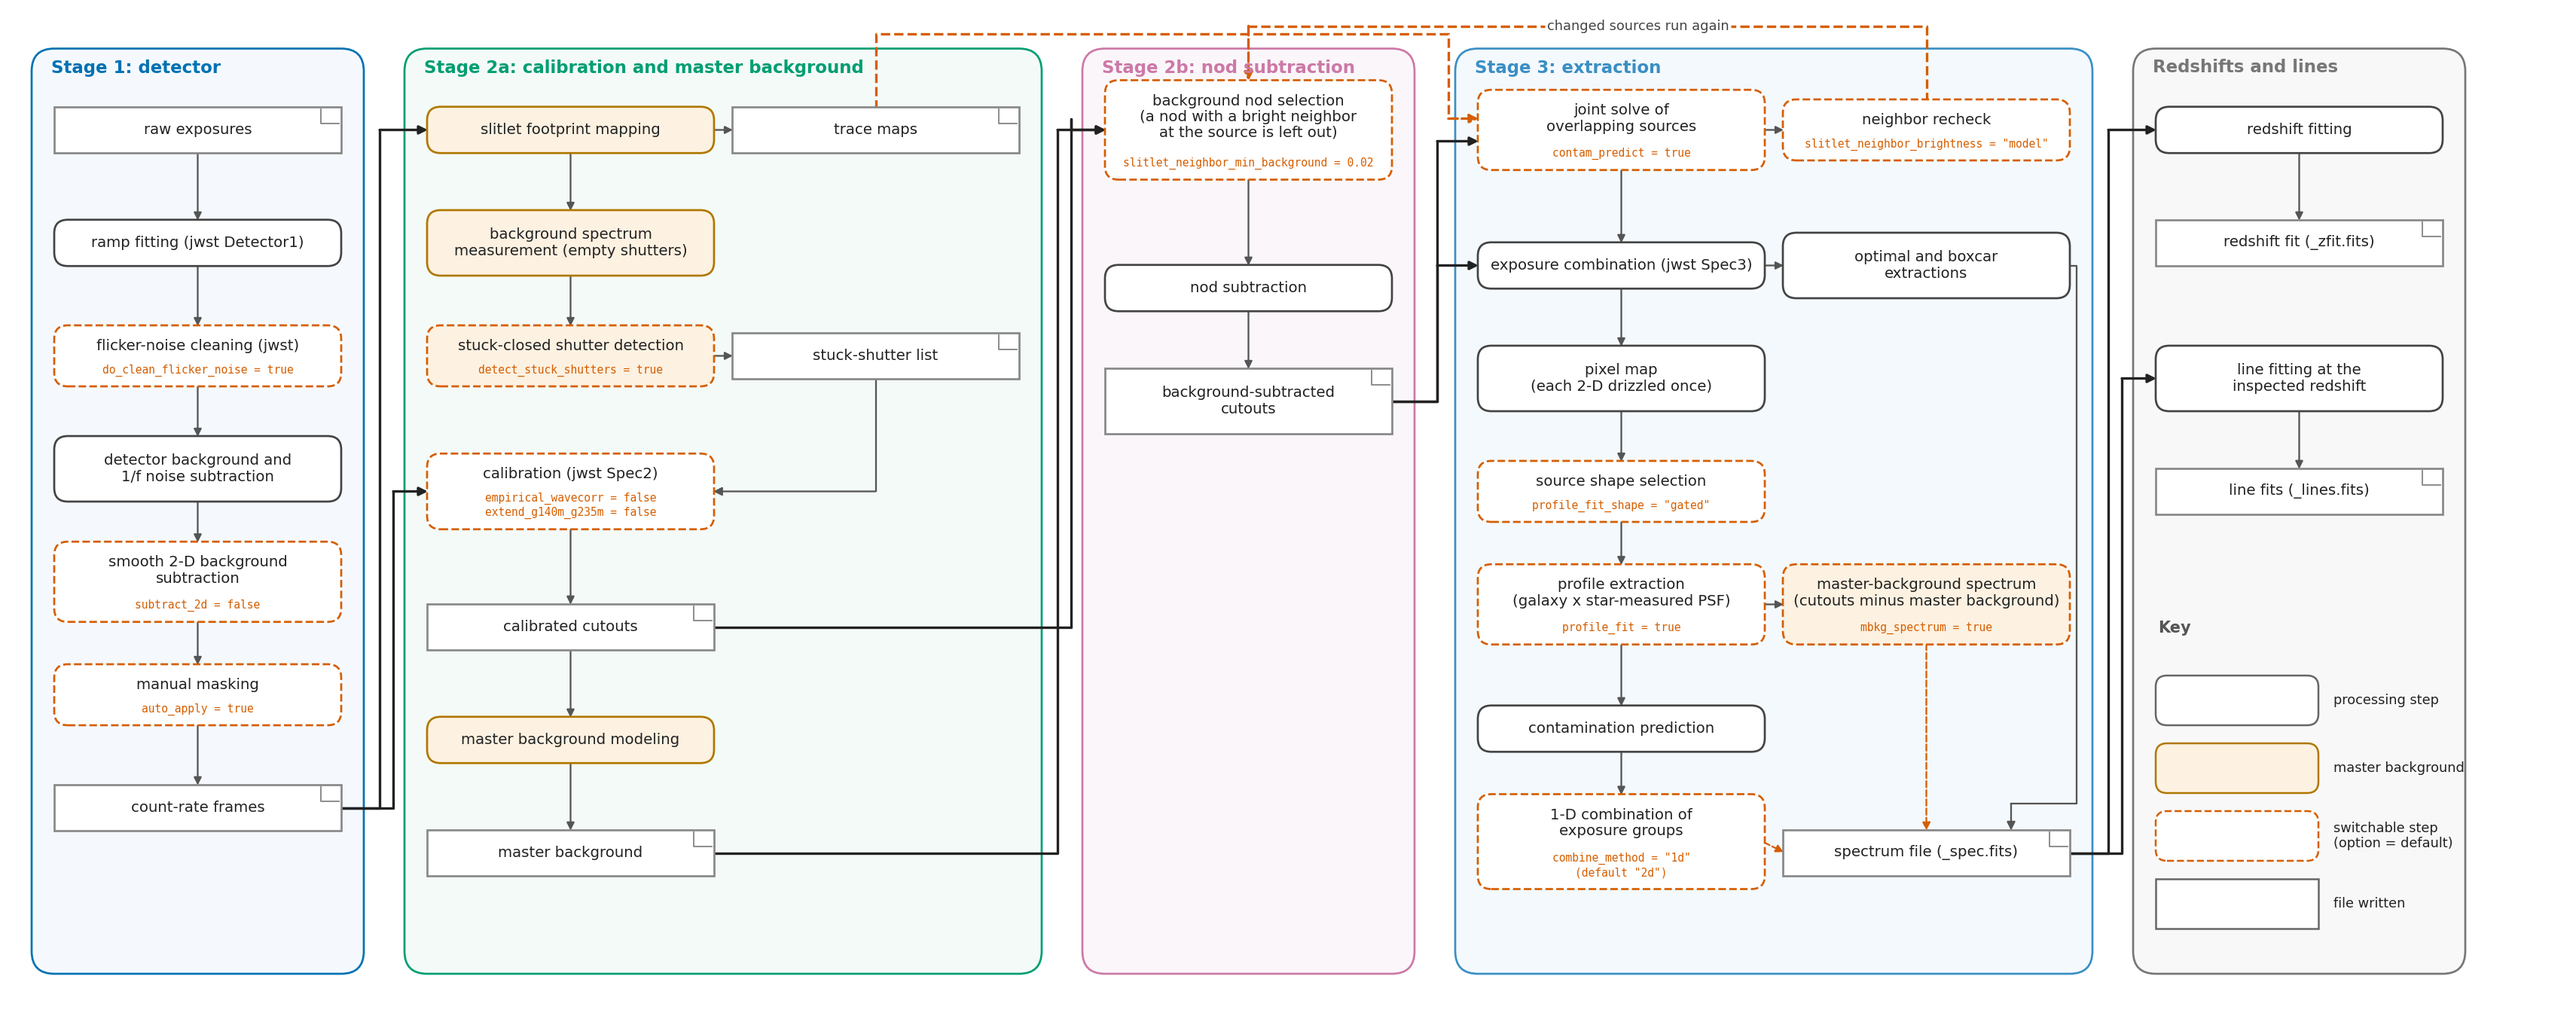
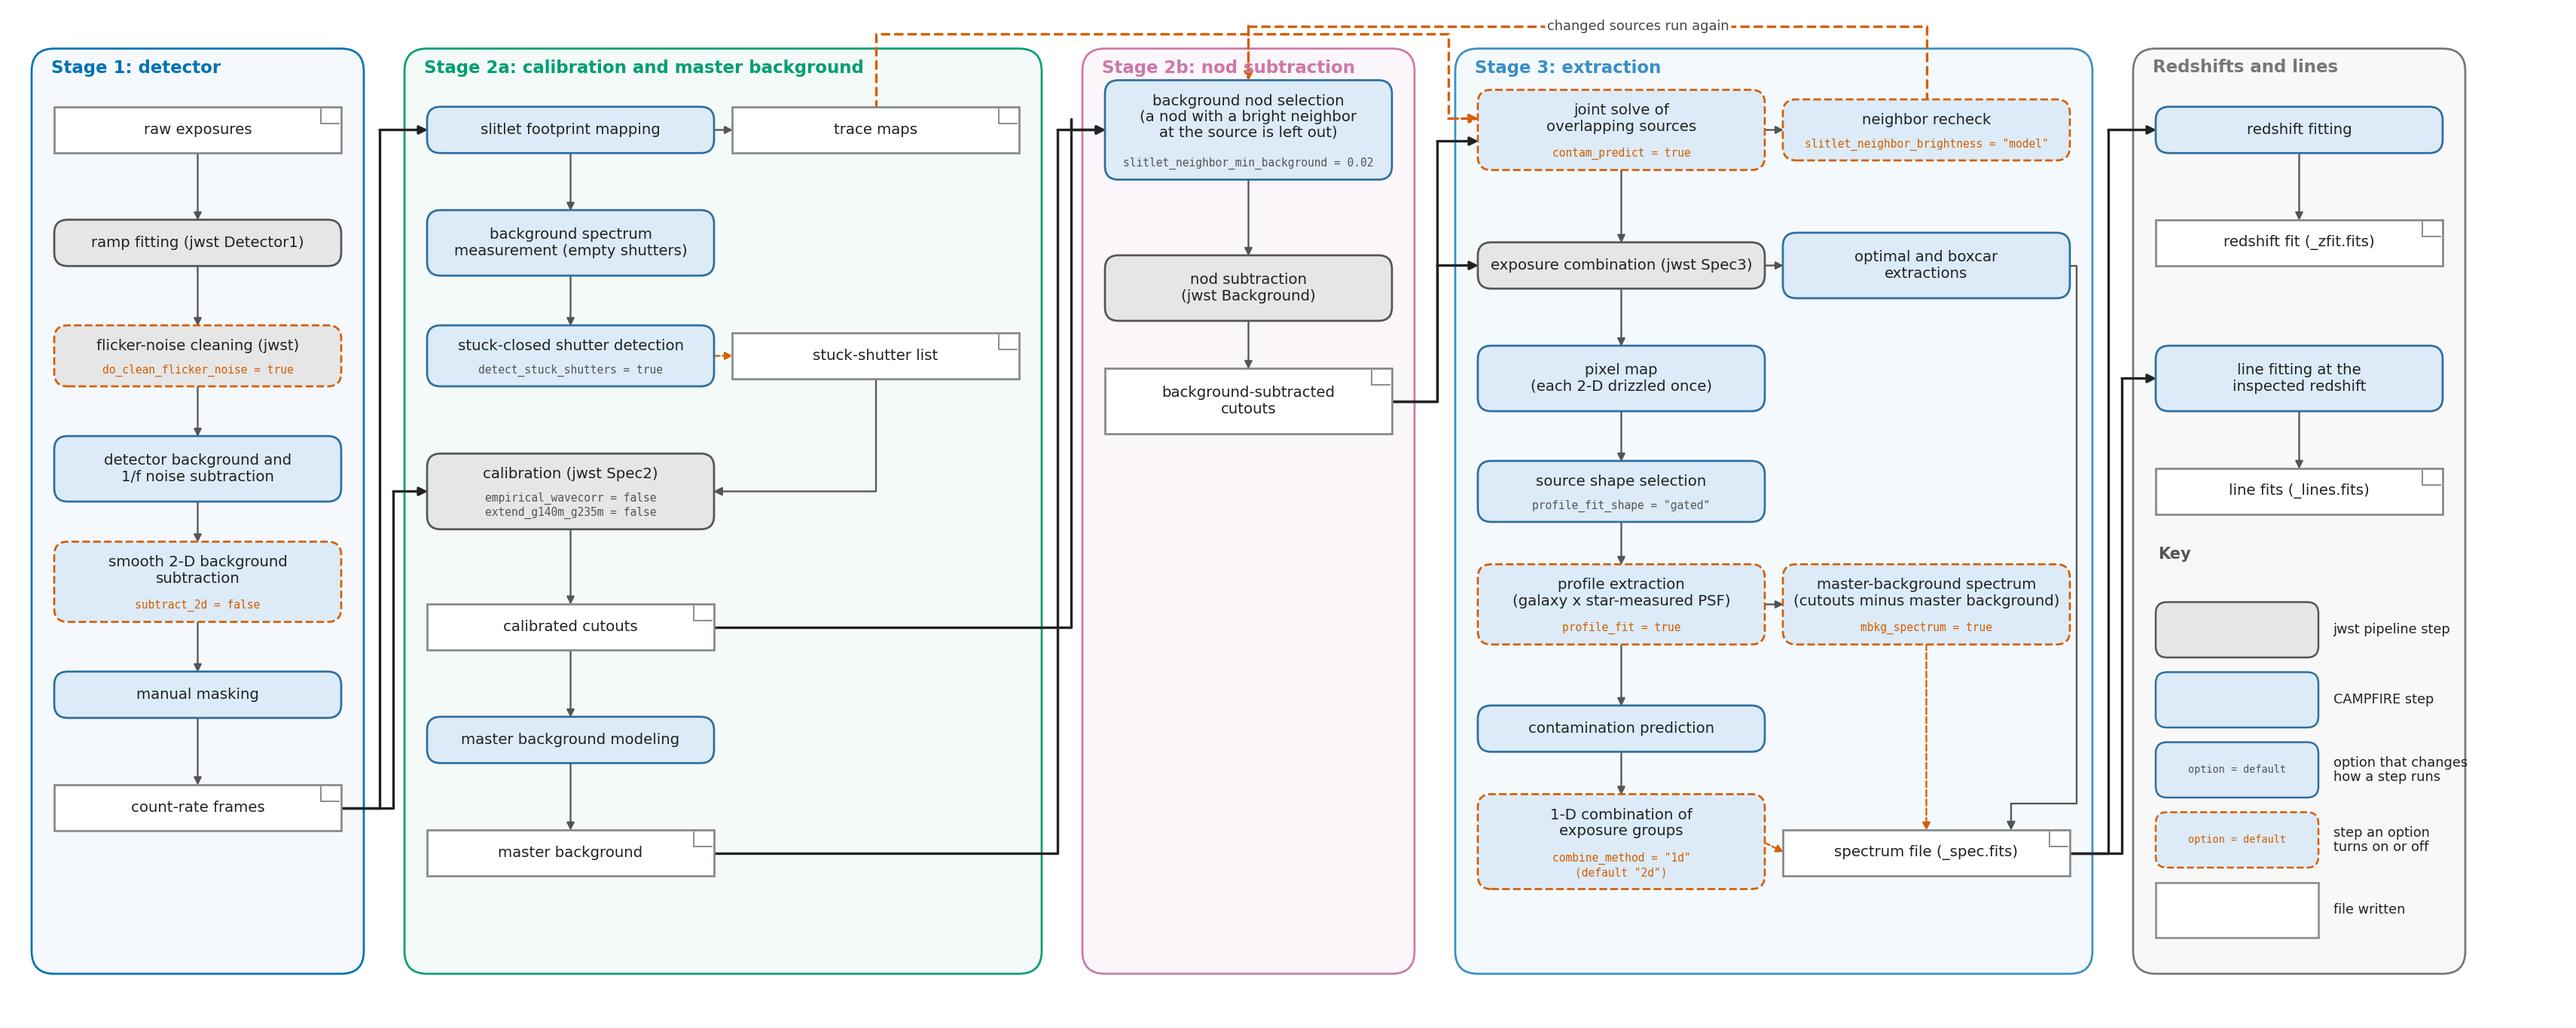
docs: flow diagram colors steps by origin (jwst or CAMPFIRE); dashed only where an option turns a step on or off
Claude-Session: https://claude.ai/code/session_019a5zAo87B6jUK2ZMiF6xjZ

diff --git a/scripts/docs/nirspec/fig_flow.py b/scripts/docs/nirspec/fig_flow.py
@@ -28,7 +28,11 @@ def knob(section, key):
     return f'{key} = {v}'
 
 
-VERM, MB_FILL, MB_EDGE = '#D55E00', '#fdf1e1', '#b07800'
+VERM = '#D55E00'
+FILL = {'jwst': '#e6e6e6', 'cf': '#dcebf7', 'file': 'white'}    # stock jwst step | CAMPFIRE step | file
+EDGE = {'jwst': '#555555', 'cf': '#2f6e9e', 'file': '#888888'}
+# steps an option turns on or off (dashed); every other option line only changes how a step runs
+SWITCH = {'cfn', 'bkg2d', 'joint', 'recheck', 'pfit', 'mbs', 'comb'}
 W, ROW = 2.5, 1.0                       # box width, row spacing (data units)
 STAGES = [  # title, column x (left edge), width, color, fill
     ('Stage 1: detector', 0.0, 2.9, '#0072B2', '#f5f9fd'),
@@ -39,49 +43,49 @@ STAGES = [  # title, column x (left edge), width, color, fill
 ]
 c1, c2a, c2b, c2b2, c3a, c3b, c4 = 0.2, 3.5, 6.2, 9.5, 12.8, 15.5, 18.8
 
-# name: (x of left edge, row, text, kind, options); kind: step | mb | file
+# name: (x of left edge, row, text, kind, options); kind: jwst | cf | file
 N = {
     'uncal':  (c1, 0, 'raw exposures', 'file', ()),
-    'det1':   (c1, 1, 'ramp fitting (jwst Detector1)', 'step', ()),
-    'cfn':    (c1, 2, 'flicker-noise cleaning (jwst)', 'step', (knob('stage1', 'do_clean_flicker_noise'),)),
-    'bkg1':   (c1, 3, 'detector background and\n1/f noise subtraction', 'step', ()),
-    'bkg2d':  (c1, 4, 'smooth 2-D background\nsubtraction', 'step', (knob('stage1', 'subtract_2d'),)),
-    'mask':   (c1, 5, 'manual masking', 'step', ('auto_apply = true',)),
+    'det1':   (c1, 1, 'ramp fitting (jwst Detector1)', 'jwst', ()),
+    'cfn':    (c1, 2, 'flicker-noise cleaning (jwst)', 'jwst', (knob('stage1', 'do_clean_flicker_noise'),)),
+    'bkg1':   (c1, 3, 'detector background and\n1/f noise subtraction', 'cf', ()),
+    'bkg2d':  (c1, 4, 'smooth 2-D background\nsubtraction', 'cf', (knob('stage1', 'subtract_2d'),)),
+    'mask':   (c1, 5, 'manual masking', 'cf', ()),
     'rate':   (c1, 6, 'count-rate frames', 'file', ()),
 
-    'geo':    (c2a, 0, 'slitlet footprint mapping', 'mb', ()),
+    'geo':    (c2a, 0, 'slitlet footprint mapping', 'cf', ()),
     'tmap':   (c2b, 0, 'trace maps', 'file', ()),
-    'mb1':    (c2a, 1, 'background spectrum\nmeasurement (empty shutters)', 'mb', ()),
-    'sfit':   (c2a, 2, 'stuck-closed shutter detection', 'mb', (knob('stage2', 'detect_stuck_shutters'),)),
+    'mb1':    (c2a, 1, 'background spectrum\nmeasurement (empty shutters)', 'cf', ()),
+    'sfit':   (c2a, 2, 'stuck-closed shutter detection', 'cf', (knob('stage2', 'detect_stuck_shutters'),)),
     'stuck':  (c2b, 2, 'stuck-shutter list', 'file', ()),
-    'spec2':  (c2a, 3.2, 'calibration (jwst Spec2)', 'step',
+    'spec2':  (c2a, 3.2, 'calibration (jwst Spec2)', 'jwst',
                (knob('stage2', 'empirical_wavecorr'), knob('stage2', 'extend_g140m_g235m'))),
     'canon':  (c2a, 4.4, 'calibrated cutouts', 'file', ()),
-    'mb2':    (c2a, 5.4, 'master background modeling', 'mb', ()),
+    'mb2':    (c2a, 5.4, 'master background modeling', 'cf', ()),
     'mbkg':   (c2a, 6.4, 'master background', 'file', ()),
 
-    'nbr':    (c2b2, 0, 'background nod selection\n(a nod with a bright neighbor\nat the source is left out)', 'step',
+    'nbr':    (c2b2, 0, 'background nod selection\n(a nod with a bright neighbor\nat the source is left out)', 'cf',
                (knob('stage2', 'slitlet_neighbor_min_background'),)),
-    'sub':    (c2b2, 1.4, 'nod subtraction', 'step', ()),
+    'sub':    (c2b2, 1.4, 'nod subtraction\n(jwst Background)', 'jwst', ()),
     'bsub':   (c2b2, 2.4, 'background-subtracted\ncutouts', 'file', ()),
 
-    'joint':  (c3a, 0, 'joint solve of\noverlapping sources', 'step', (knob('stage3', 'contam_predict'),)),
-    'recheck': (c3b, 0, 'neighbor recheck', 'step', (knob('stage3', 'slitlet_neighbor_brightness'),)),
-    'spec3':  (c3a, 1.2, 'exposure combination (jwst Spec3)', 'step', ()),
-    'opt':    (c3b, 1.2, 'optimal and boxcar\nextractions', 'step', ()),
-    'dmap':   (c3a, 2.2, 'pixel map\n(each 2-D drizzled once)', 'step', ()),
-    'shape':  (c3a, 3.2, 'source shape selection', 'step', (knob('stage3', 'profile_fit_shape'),)),
-    'pfit':   (c3a, 4.2, 'profile extraction\n(galaxy x star-measured PSF)', 'step', (knob('stage3', 'profile_fit'),)),
-    'mbs':    (c3b, 4.2, 'master-background spectrum\n(cutouts minus master background)', 'mb',
+    'joint':  (c3a, 0, 'joint solve of\noverlapping sources', 'cf', (knob('stage3', 'contam_predict'),)),
+    'recheck': (c3b, 0, 'neighbor recheck', 'cf', (knob('stage3', 'slitlet_neighbor_brightness'),)),
+    'spec3':  (c3a, 1.2, 'exposure combination (jwst Spec3)', 'jwst', ()),
+    'opt':    (c3b, 1.2, 'optimal and boxcar\nextractions', 'cf', ()),
+    'dmap':   (c3a, 2.2, 'pixel map\n(each 2-D drizzled once)', 'cf', ()),
+    'shape':  (c3a, 3.2, 'source shape selection', 'cf', (knob('stage3', 'profile_fit_shape'),)),
+    'pfit':   (c3a, 4.2, 'profile extraction\n(galaxy x star-measured PSF)', 'cf', (knob('stage3', 'profile_fit'),)),
+    'mbs':    (c3b, 4.2, 'master-background spectrum\n(cutouts minus master background)', 'cf',
                (knob('stage3', 'mbkg_spectrum'),)),
-    'contam': (c3a, 5.3, 'contamination prediction', 'step', ()),
-    'comb':   (c3a, 6.3, '1-D combination of\nexposure groups', 'step',
+    'contam': (c3a, 5.3, 'contamination prediction', 'cf', ()),
+    'comb':   (c3a, 6.3, '1-D combination of\nexposure groups', 'cf',
                ('combine_method = "1d"', '(default "' + CFG['stage3']['combine_method'] + '")')),
     'spec':   (c3b, 6.4, 'spectrum file (_spec.fits)', 'file', ()),
 
-    'zfit':   (c4, 0, 'redshift fitting', 'step', ()),
+    'zfit':   (c4, 0, 'redshift fitting', 'cf', ()),
     'zf':     (c4, 1, 'redshift fit (_zfit.fits)', 'file', ()),
-    'lines':  (c4, 2.2, 'line fitting at the\ninspected redshift', 'step', ()),
+    'lines':  (c4, 2.2, 'line fitting at the\ninspected redshift', 'cf', ()),
     'lf':     (c4, 3.2, 'line fits (_lines.fits)', 'file', ()),
 }
 
@@ -98,9 +102,8 @@ for name, (x, row, text, kind, knobs) in N.items():
     nl = text.count('\n') + 1
     h = 0.2 + 0.17 * nl + 0.13 * nk
     y = -row * ROW - h / 2
-    gated = bool(knobs)
-    fill = MB_FILL if kind == 'mb' else 'white'
-    edge = VERM if gated else (MB_EDGE if kind == 'mb' else ('#888888' if kind == 'file' else '#444444'))
+    gated = name in SWITCH
+    fill, edge = FILL[kind], (VERM if gated else EDGE[kind])
     style = 'square,pad=0.02' if kind == 'file' else 'round,pad=0.02,rounding_size=0.12'
     ax.add_patch(FancyBboxPatch((x, y), W, h, boxstyle=style, fc=fill, ec=edge, lw=1.3,
                                 ls='--' if gated else '-', zorder=3))
@@ -115,7 +118,7 @@ for name, (x, row, text, kind, knobs) in N.items():
                 linespacing=1.15)
     for i, k in enumerate(knobs):
         ax.text(x + W / 2, y + 0.07 + 0.13 * (nk - 1 - i), k, ha='center', va='bottom', fontsize=7,
-                family='monospace', color=VERM, zorder=5)
+                family='monospace', color=VERM if gated else '#555555', zorder=5)
     boxes[name] = (x, y, W, h)
 
 
@@ -181,7 +184,7 @@ for a, b in [('uncal', 'det1'), ('det1', 'cfn'), ('cfn', 'bkg1'), ('bkg1', 'bkg2
              ('zfit', 'zf'), ('lines', 'lf')]:
     arrow(a, b)
 arrow('geo', 'tmap', 'right', 'left')
-arrow('sfit', 'stuck', 'right', 'left')
+arrow('sfit', 'stuck', 'right', 'left', dashed=True)       # detect_stuck_shutters: write the calls to the list
 G = dict(color='#555555', lw=1.1)
 route('stuck', 'spec2', [], sa='bottom', sb='right', **G)
 arrow('spec3', 'opt', 'right', 'left')
@@ -210,16 +213,21 @@ route('recheck', 'nbr', [('y', 0.92), ('x', anchor('nbr', 'top')[0])], sa='top',
       label='changed sources run again', label_at=(14.2, 0.92))
 
 # key
-kx, ky = 18.8, -4.6
+kx, ky = 18.8, -3.95
 ax.text(kx, ky + 0.15, 'Key', fontsize=10, fontweight='bold', color='#555555')
-for i, (text, kind, gated) in enumerate([('processing step', 'step', False), ('master background', 'mb', False),
-                                         ('switchable step', 'step', True), ('file written', 'file', False)]):
-    y = ky - 0.25 - i * 0.6
-    ax.add_patch(FancyBboxPatch((kx, y - 0.4), 1.4, 0.4,
+for i, (text, kind, gated, sample) in enumerate([
+        ('jwst pipeline step', 'jwst', False, None),
+        ('CAMPFIRE step', 'cf', False, None),
+        ('option that changes\nhow a step runs', 'cf', False, 'option = default'),
+        ('step an option\nturns on or off', 'cf', True, 'option = default'),
+        ('file written', 'file', False, None)]):
+    y = ky - 0.25 - i * 0.62
+    ax.add_patch(FancyBboxPatch((kx, y - 0.45), 1.4, 0.45,
                                 boxstyle='square,pad=0.02' if kind == 'file' else 'round,pad=0.02,rounding_size=0.1',
-                                fc=MB_FILL if kind == 'mb' else 'white',
-                                ec=VERM if gated else (MB_EDGE if kind == 'mb' else '#666666'),
-                                ls='--' if gated else '-', lw=1.2, zorder=3))
-    ax.text(kx + 1.55, y - 0.2, text + ('\n(option = default)' if gated else ''), fontsize=8.5, va='center',
-            color=C.INK)
+                                fc=FILL[kind], ec=VERM if gated else EDGE[kind], ls='--' if gated else '-', lw=1.2,
+                                zorder=3))
+    if sample:
+        ax.text(kx + 0.7, y - 0.225, sample, fontsize=6.5, family='monospace', ha='center', va='center',
+                color=VERM if gated else '#555555', zorder=5)
+    ax.text(kx + 1.55, y - 0.225, text, fontsize=8.5, va='center', color=C.INK, linespacing=1.1)
 C.save(fig, args, 'flow.png')
